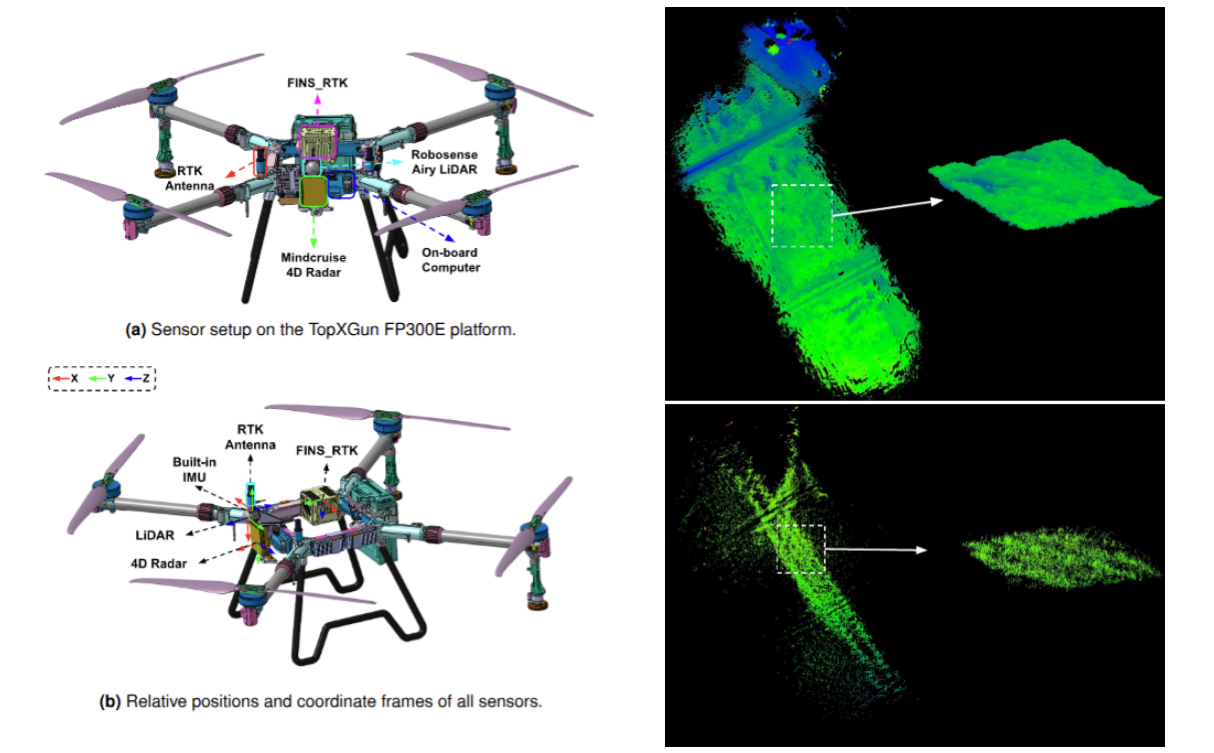
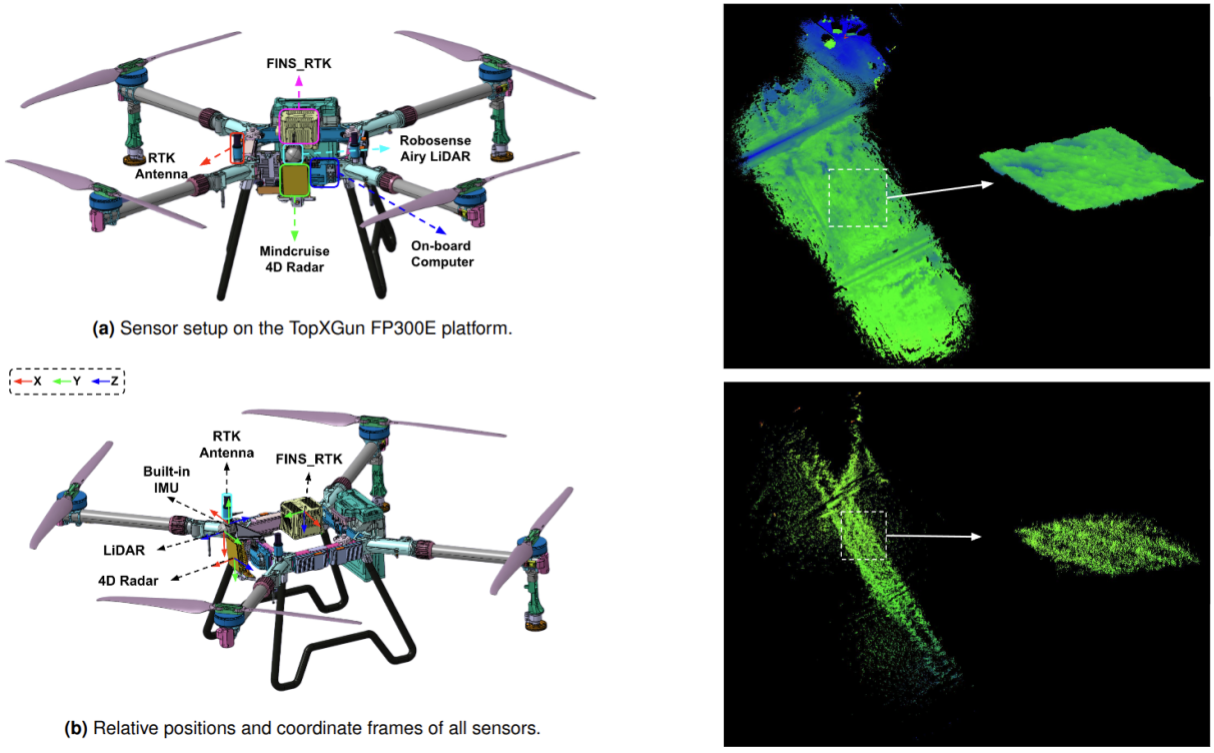
update

diff --git a/index.html b/index.html
@@ -107,7 +107,7 @@
 
     <blockquote style="border-left: none; overflow: hidden;">
       <img src="assets/imgs/voxelmap.gif"
-        style="float:left;width:300px;height:160px;object-fit:contain;margin-right:18px;margin-top:2px;border-color:red;"
+        style="float:left;width:280px;height:150px;object-fit:contain;margin-right:18px;margin-top:2px;border-color:red;"
         class="img-bordered" alt="highlight">
       <div style="overflow:hidden;">
         <p>
@@ -125,7 +125,7 @@
 
     <blockquote style="border-left: none; overflow: hidden;">
       <img src="assets/imgs/tom_gs.png"
-        style="float:left;width:300px;height:160px;object-fit:contain;margin-right:18px;margin-top:2px;border-color:red;"
+        style="float:left;width:280px;height:150px;object-fit:contain;margin-right:18px;margin-top:2px;border-color:red;"
         class="img-bordered" alt="highlight">
       <div style="overflow:hidden;">
         <p>
@@ -145,7 +145,7 @@
 
     <blockquote style="border-left: none; overflow: hidden;">
       <img src="assets/imgs/dc_vlaq.png"
-        style="float:left;width:300px;height:160px;object-fit:contain;margin-right:18px;margin-top:2px;border-color:red;"
+        style="float:left;width:280px;height:150px;object-fit:contain;margin-right:18px;margin-top:2px;border-color:red;"
         class="img-bordered" alt="highlight">
       <div style="overflow:hidden;">
         <p>
@@ -169,7 +169,7 @@
 
     <blockquote style="border-left: none; overflow: hidden;">
       <img src="assets/imgs/agrilira4d.png"
-        style="float:left;width:300px;height:160px;object-fit:contain;margin-right:18px;margin-top:2px;border-color:red;"
+        style="float:left;width:280px;height:150px;object-fit:contain;margin-right:18px;margin-top:2px;border-color:red;"
         class="img-bordered" alt="highlight">
       <div style="overflow:hidden;">
         <p>
@@ -189,7 +189,7 @@
 
     <blockquote style="border-left: none; overflow: hidden;">
       <img src="assets/imgs/2dgs_orthoimage.png"
-        style="float:left;width:300px;height:160px;object-fit:contain;margin-right:18px;margin-top:2px;border-color:red;"
+        style="float:left;width:280px;height:150px;object-fit:contain;margin-right:18px;margin-top:2px;border-color:red;"
         class="img-bordered" alt="highlight">
       <div style="overflow:hidden;">
         <p>
@@ -208,7 +208,7 @@
 
     <blockquote style="border-left: none; overflow: hidden;">
       <img src="assets/imgs/vdm_vsr.gif"
-        style="float:left;width:300px;height:160px;object-fit:contain;margin-right:18px;margin-top:2px;border-color:green;"
+        style="float:left;width:280px;height:150px;object-fit:contain;margin-right:18px;margin-top:2px;border-color:green;"
         class="img-bordered" alt="highlight">
       <div style="overflow:hidden;">
         <p>
@@ -227,7 +227,7 @@
 
     <blockquote style="border-left: none; overflow: hidden;">
       <img src="assets/imgs/fusion_orthoimage.png"
-        style="float:left;width:300px;height:160px;object-fit:contain;margin-right:18px;margin-top:2px;border-color:green;"
+        style="float:left;width:280px;height:150px;object-fit:contain;margin-right:18px;margin-top:2px;border-color:green;"
         class="img-bordered" alt="highlight">
       <div style="overflow:hidden;">
         <p>
@@ -247,7 +247,7 @@
 
     <blockquote style="border-left: none; overflow: hidden;">
       <img src="assets/imgs/motion_deblur.gif"
-        style="float:left;width:300px;height:160px;object-fit:contain;margin-right:18px;margin-top:2px;border-color:green;"
+        style="float:left;width:280px;height:150px;object-fit:contain;margin-right:18px;margin-top:2px;border-color:green;"
         class="img-bordered" alt="highlight">
       <div style="overflow:hidden;">
         <p>